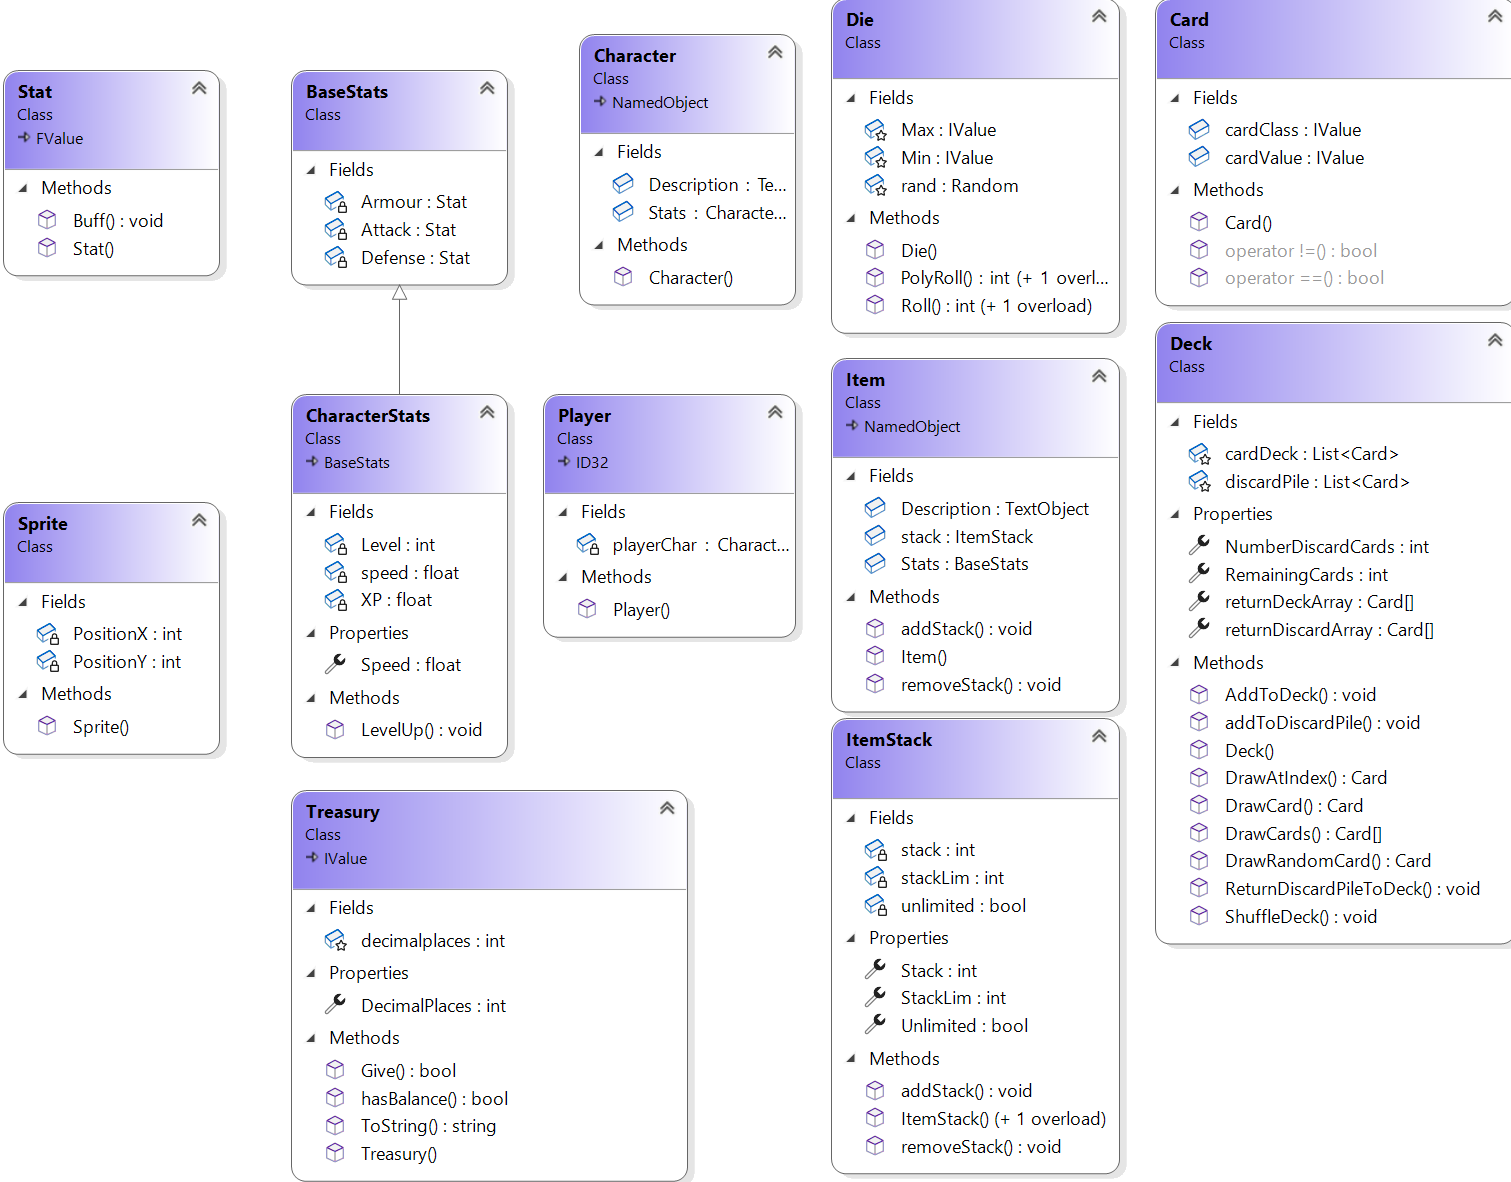
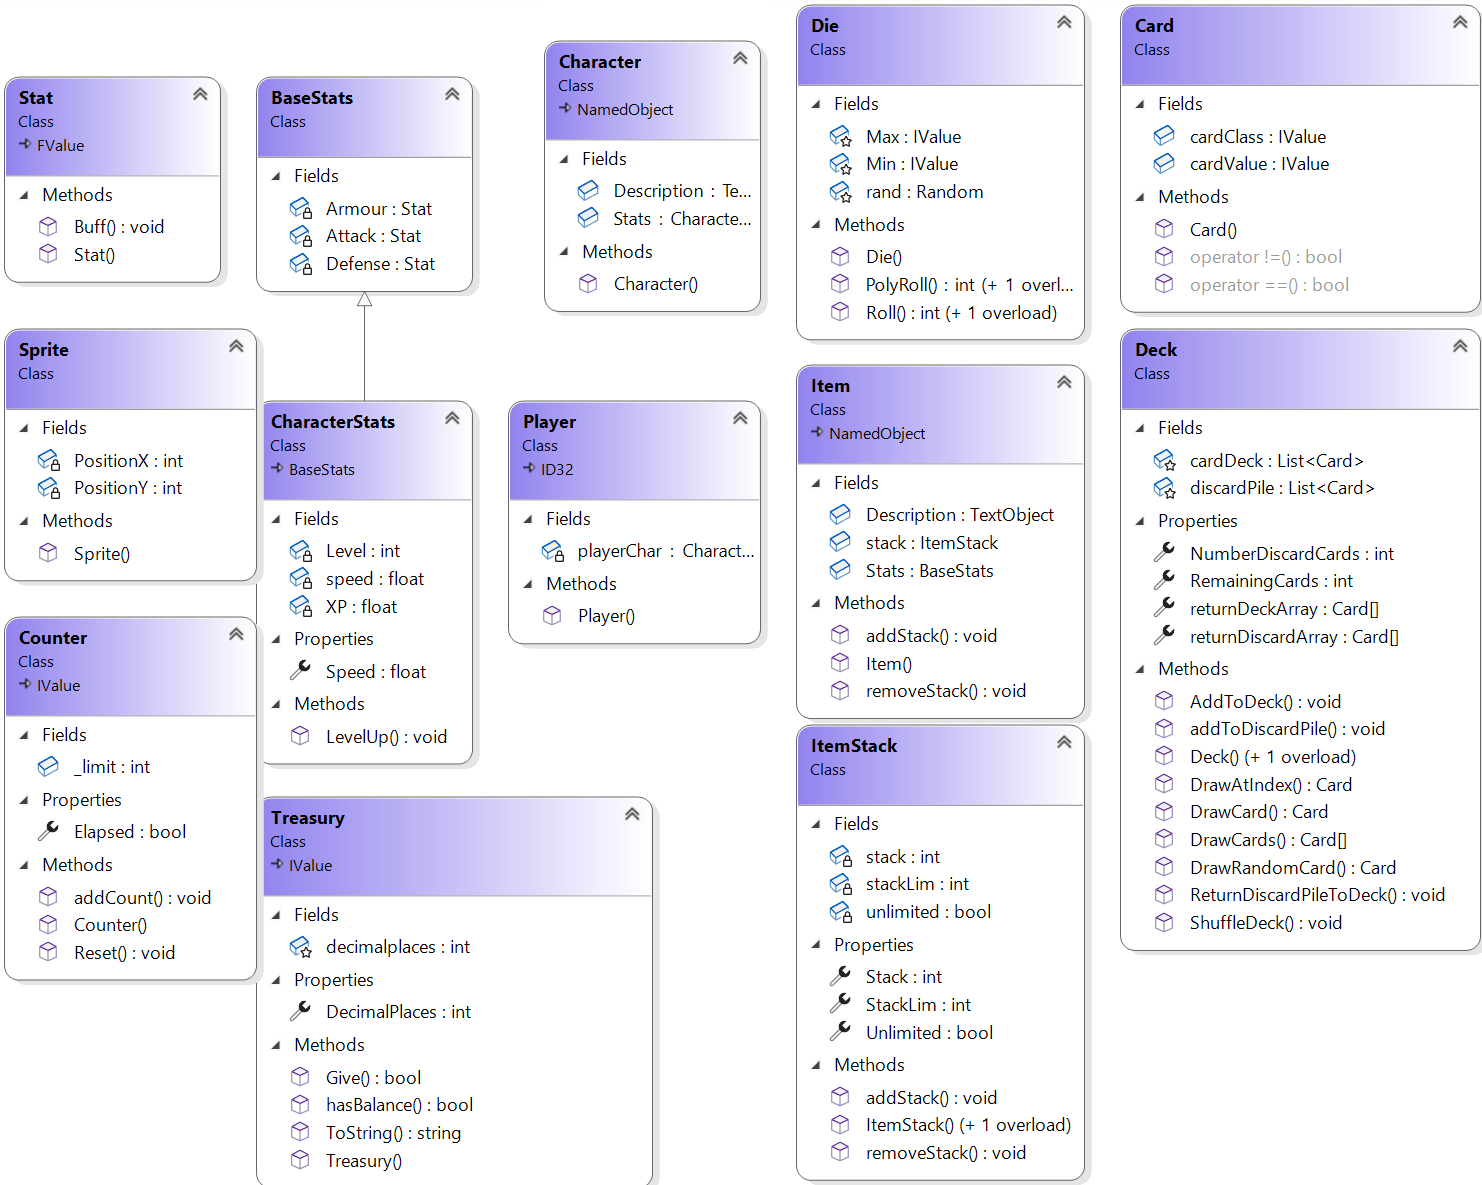
Deck can be set from a prexisting list of cards Added an integer counter class

Changed region(s): [[0.0, 0.0, 1.0, 1.0]]

diff --git a/Game/Counter.cs b/Game/Counter.cs
@@ -1,0 +1,26 @@
+using Uaine.Objects.Primitives.Values;
+
+namespace Uaine.Objects.Game
+{
+    public class Counter : IValue
+    {
+        public int _limit;
+
+        public bool Elapsed { get => (_limit >= Value); }
+
+        public Counter(int limit, int startingvalue) : base(startingvalue, 0)
+        {
+            _limit = limit;
+        }
+
+        public void Reset()
+        {
+            Value = _def;
+        }
+
+        public void addCount(int value)
+        {
+            Value += value;
+        }
+    }
+}

diff --git a/Game/Card/Deck.cs b/Game/Card/Deck.cs
@@ -13,6 +13,13 @@ namespace Uaine.Objects.Game.Card
         public int RemainingCards { get => cardDeck.Count; }
         public int NumberDiscardCards { get => discardPile.Count; }
 
+        public Deck(Card[] list)
+        {
+            //int size = numValues * numClasses;
+            cardDeck = list.ToList();
+            discardPile = new List<Card>();
+            ShuffleDeck();
+        }
         public Deck(int numValues, int numClasses)
         {
             //int size = numValues * numClasses;
